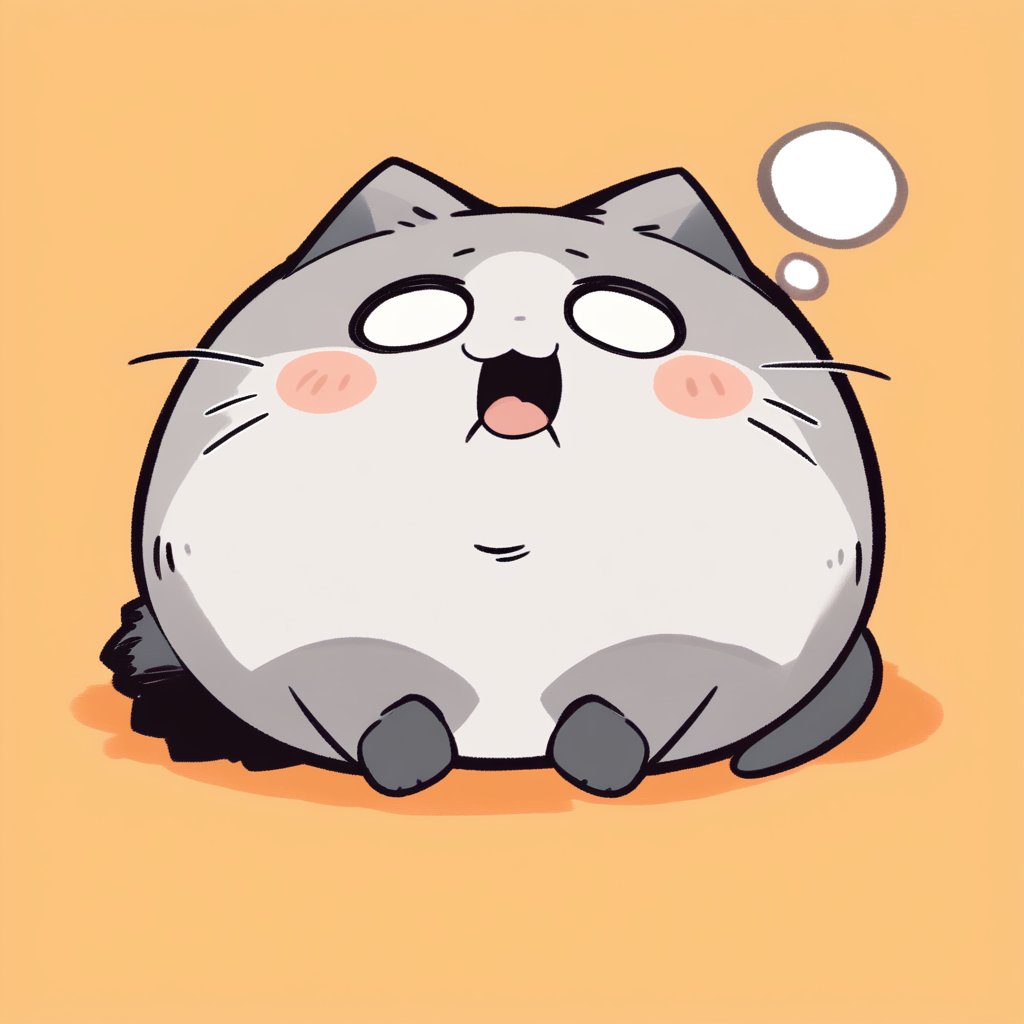
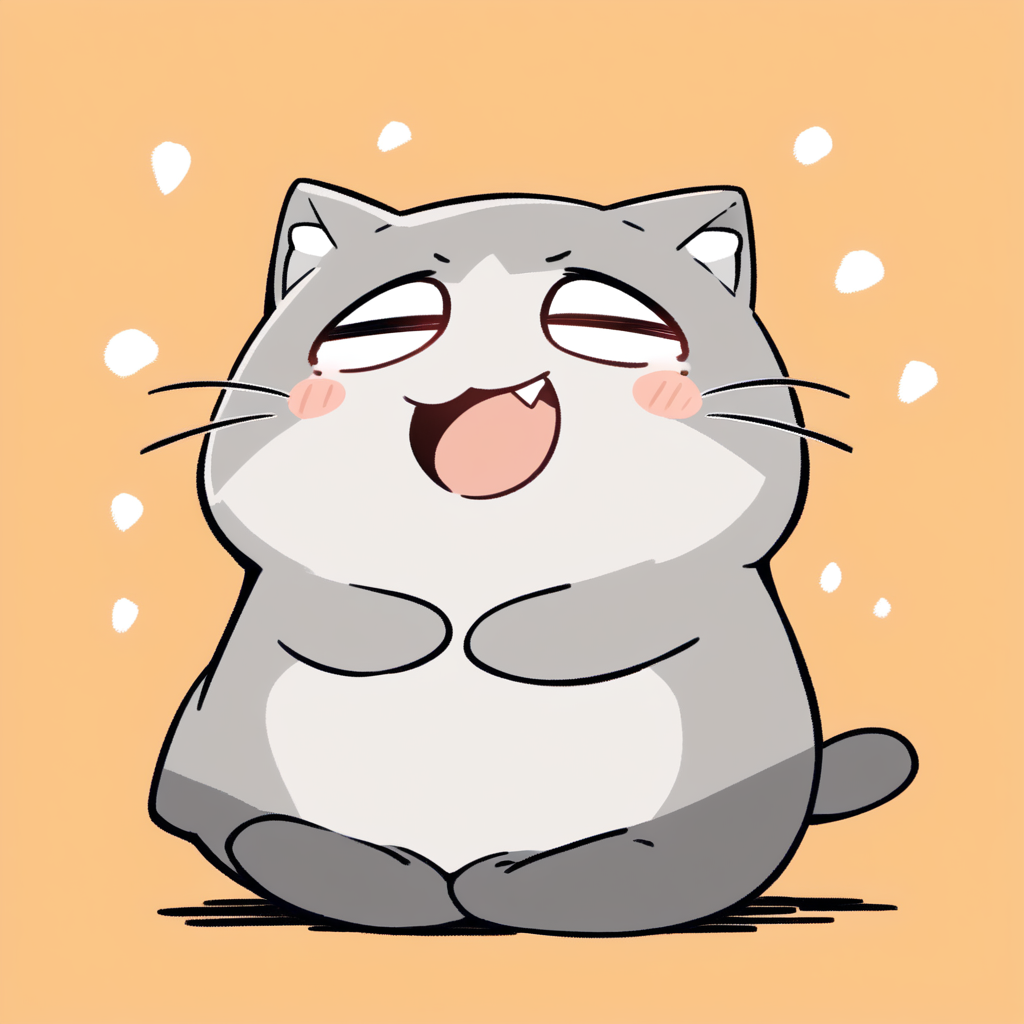
v8 Phase 4 完成：nobg 16/16 過，補流程文件
- v8 raw: #08 #15 重生加 clean outline/no ink splashes，去背後乾淨
- v8 nobg: 16 張 SAM 全過
- CLAUDE.md: 補「背景色選擇原則」「Ink Painting 去背陷阱」「Flood Fill 吃同色細節陷阱」「bg removal fix loop 策略」；Phase 4 fix loop 指明不要先 flood fill

diff --git a/CLAUDE.md b/CLAUDE.md
@@ -86,7 +86,7 @@ AnimagineXL + ink painting style 必然產生背景紋理/漸層。新版 prompt
 
 **style_prefix 必備：**
 ```
-solid flat single color background, plain background, no gradient, no shadow, no texture, light green background
+solid flat single color background, plain background, no gradient, no shadow, no texture, bright saturated orange background
 ```
 
 **negative_prompt 必備：**
@@ -95,6 +95,53 @@ gradient background, textured background, shadow on background, dark background,
 ```
 
 單純寫 `light green background` 不夠，v8 實測 15/16 張會失敗。加了強化詞才能穩定產出可去背的圖。
+
+### 背景色選擇原則（v8+ 血淚教訓）
+
+背景色不能跟角色身上或任何裝飾元素同色，否則 SAM/flood fill 會吃掉這些元素。選色前**必須**審一遍 prompts.json 的所有 emotion 裝飾。
+
+**角色色（圓滾貓例）：** 灰身、白臉白肚、粉頰、黑眼珠
+
+**表情裝飾色（要避開）：**
+- 白色：sparkles、stars、steam、puffs、ghost、bubbles、ZZZ
+- 藍色：tears、sweat drops、teardrops
+- 粉/紅：hearts、cheeks、veins
+- 黃色：sparkles、stars
+- 黑色：ZZZ 外框、dots
+- 綠色：stink lines
+
+**v8 實測流程：**
+1. `light green` → ink painting 產生紋理，QA 失敗 15/16
+2. `cyan` → 跟藍淚水撞色（#02, #04, #07, #12）
+3. `bright saturated orange` → 成功（不在任何角色/裝飾色上）
+
+### Ink Painting Style 去背陷阱（v8+）
+
+`ink painting style, brush strokes` 這類畫風**會在角色旁邊產生墨點噴濺**，SAM 會把噴濺當成貓的一部分納入 mask → 去背後有殘留黑塊。
+
+**解法：** outlier 的 per-sticker prompt 加
+```
+clean outline, no ink splashes, no background artifacts
+```
+不要全部加（太一致會失去畫風）。只在 nobg QA 失敗時，發現某張有背景噴濺，才加。
+
+### Flood Fill 吃掉同色細節（v8+）
+
+Flood fill 從四角填同色區域。如果角色內部有跟**背景同色的小細節**（例：橘色背景 + 淺橘瞳孔），flood fill 會把這些小細節一起吃掉 → `body_intact` 不一定抓得到（過小被忽略），但視覺上很明顯。
+
+**規避：**
+- 第一選擇：用 SAM（semantic 判定，不看顏色）
+- Flood fill 只在 SAM 壞掉時用，**且**確認角色內沒有跟背景同色的細節
+- 檢查瞳孔色是否跟背景色太接近，避免 pale pupils on similar bg
+
+### bg removal fix loop 策略（v8+）
+
+nobg QA 失敗時，照優先序試：
+
+1. **SAM 原結果** — 保留所有細節，但可能有邊緣殘留
+2. **後處理 alpha 閾值**（砍半透明邊）— 只對「半透明暈邊」有用，對不透明色塊殘留無效
+3. **重生 raw + 加 `clean outline, no ink splashes`** — 最根本，適用墨點噴濺
+4. **flood fill** — 最後手段，只在確定沒有同色細節時用
 
 ### bg_uniform QA 判定標準（v8+）
 
@@ -244,7 +291,10 @@ Phase 4: Background Removal
 14. Nobg QA（用 Ollama）：
     → python -c "import qa; qa.run_stage('<theme>', '<version>', 'nobg_qa')"
     → checks: bg_clean, body_intact
-15. Fix loop: 沒過的重跑去背 → 重跑 Nobg QA
+15. Fix loop（照優先序，見下方「bg removal fix loop 策略」）：
+    a. 先重試 SAM（呼叫 sam_remove_bg 直接，不要重跑 nobg 整體）
+    b. 還是 bg_clean FAIL → 重生 raw 加 "clean outline, no ink splashes, no background artifacts"
+    c. **不要**隨便用 flood fill 救場，會吃同色細節（如跟背景同色的瞳孔）
 15. ★ USER CONFIRMS NOBG
 
 Phase 5: Format (zh)
@@ -310,10 +360,12 @@ Phase 6: Package & Publish
 
 ### 關鍵規則（每次都要遵守，不要再犯）
 
-- **QA 用 Ollama（`qa.run_stage()`），絕對不用 Claude 看圖** — 浪費 token 且不可靠
+- **QA 用 Ollama（`qa.run_stage()`），絕對不用 Claude 看圖** — 浪費 token 且不可靠。**例外**：跨張風格一致性（Ollama 做不到）
 - **fix 只重生 raw** — 不產 nobg，不做 format，不做任何後續步驟
 - **bg_uniform + bg_color + separation 是去背的前置條件** — 這 3 項沒過就不能進 Phase 4，要修到過
 - **每個步驟用上面寫的指令** — 不要自己猜指令、加參數、組合步驟
+- **背景色不能跟角色/裝飾色撞** — 選色前審所有 emotion prompts，見「背景色選擇原則」
+- **nobg 失敗不要先 flood fill** — 會吃同色細節，優先重生 raw 加 "no ink splashes"
 
 ### 風格一致性檢查
 
